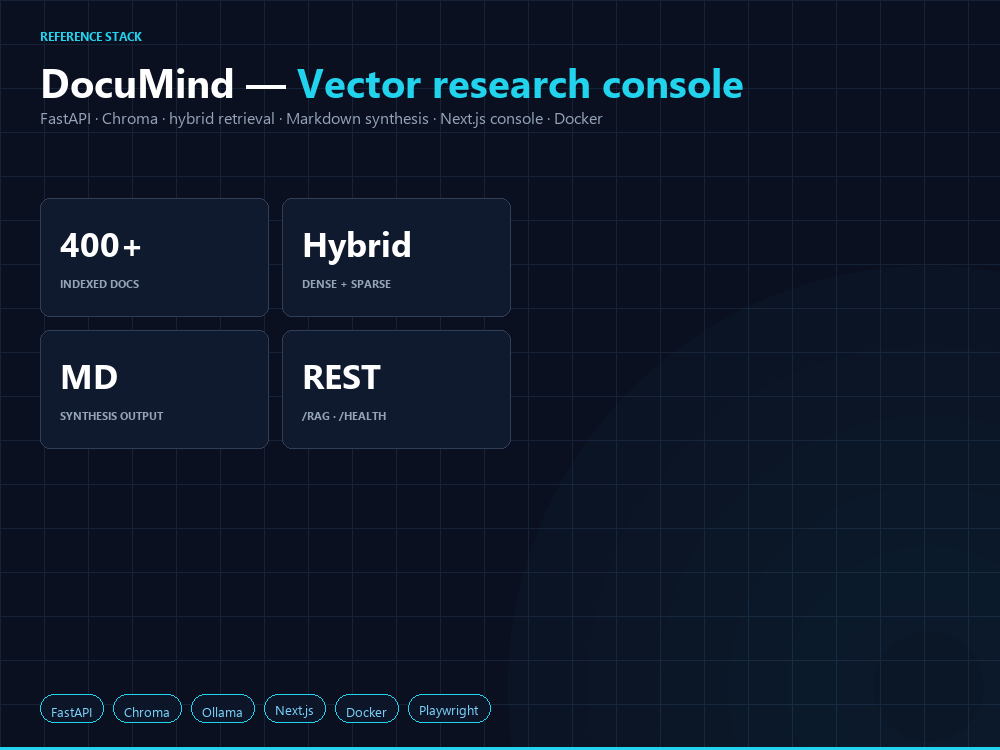
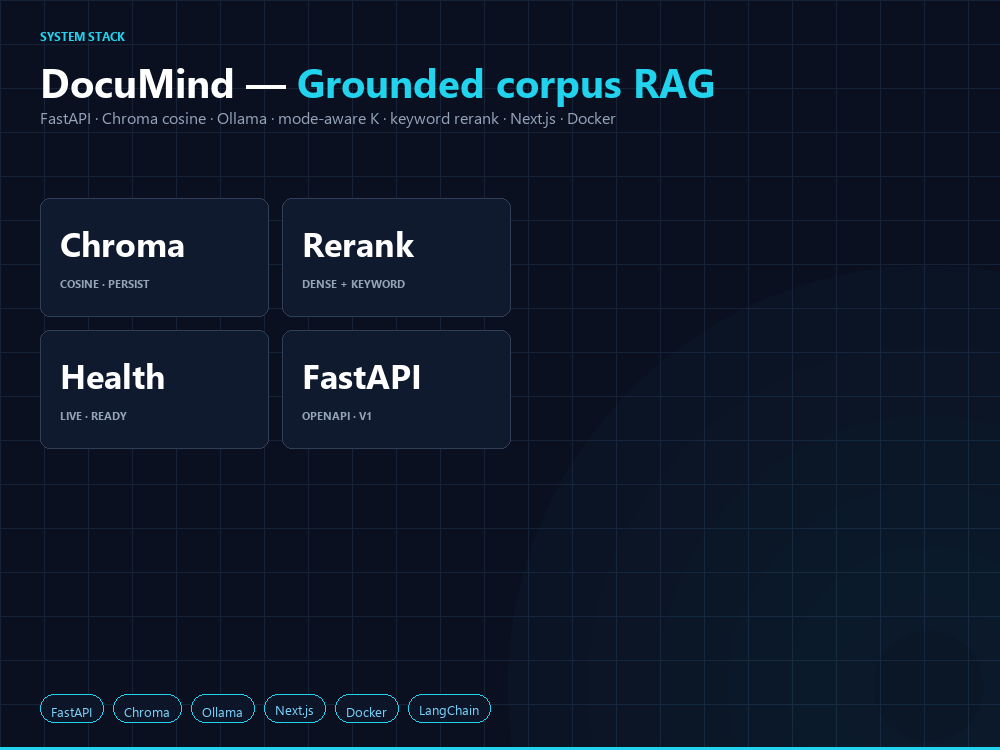
Revise portfolio HTML and README for clarity and accuracy. Update project descriptions, acceptance criteria, and metadata to better reflect the capabilities of the DocuMind system. Enhance thumbnail design and update related scripts for improved output consistency. Adjust layout and content for bett

diff --git a/portfolio/Upwork_Project_Catalog_Client.html b/portfolio/Upwork_Project_Catalog_Client.html
@@ -37,7 +37,7 @@
 </head>
 <body>
   <main>
-    <div class="banner">Upwork Project Catalog &mdash; Fixed-price offer (adapt from DocuMind-class reference implementation)</div>
+    <div class="banner">Fixed-price offer &mdash; document RAG MVP (scope aligned with production-style reference builds)</div>
 
     <h1>Document RAG MVP: ingest, index, grounded Q&amp;A, deploy</h1>
     <p class="meta">Single-tenant MVP suitable for internal research, policy, or technical libraries. You get a working API, operator UI, handoff docs, and two weeks of post-launch defect support.</p>
@@ -46,7 +46,7 @@
     <p class="meta" style="margin-top:0">Structured as three Upwork milestones (below). Alternative: <strong>USD 135/hr</strong> with a <strong>25-hour minimum</strong> if you prefer hourly with a capped discovery phase first.</p>
 
     <div class="callout">
-      <strong>Why this number:</strong> It reflects a bounded MVP (not open-ended consulting), includes integration and one deployment target, and leaves room for you to discount slightly for your first few contracts without working below market. If the client needs SSO, multi-tenant ACLs on chunks, or formal model risk documentation, treat those as Phase 2 (see add-ons).
+      <strong>Pricing note:</strong> Scoped MVP: one deployment surface, written milestones, bounded defect window. Discounts are your call; scope creep (SSO, multi-tenant ACLs on chunks, formal model governance packs) belongs in Phase 2 or add-ons.
     </div>
 
     <h2>Market context: what &ldquo;RAG MVP&rdquo; usually means on talent marketplaces</h2>
@@ -83,15 +83,15 @@
         </tr>
       </tbody>
     </table>
-    <p class="meta">Public repos in the &ldquo;ChatPDF + LangChain + vector DB&rdquo; shape (for example <em>ChatPDF-RAG</em>, <em>AskMyPDF-GPT4</em>, <em>RAG-PDF</em> on GitHub) illustrate how common the pattern is: easy to clone, hard to defend in procurement without the rows above addressed.</p>
+    <p class="meta">Many public &ldquo;ChatPDF&rdquo; repos share the same shallow shape: single chain, hosted keys assumed, weak acceptance criteria. Procurement and internal platform teams ask for health semantics, API contracts, and repeatable ingest — the gap this catalog closes.</p>
 
     <h2>What makes <em>this</em> catalog stand out for buyers</h2>
     <ul>
-      <li><strong>Written acceptance criteria per milestone</strong> (ingest success, non-empty citations, readiness check) so escrow maps to evidence, not vibes.</li>
+      <li><strong>Written acceptance criteria per milestone</strong> (ingest success, non-empty citations, readiness check) so escrow maps to verifiable deliverables.</li>
       <li><strong>Dual health model</strong> (liveness vs readiness) aligned with how platform teams deploy behind proxies.</li>
       <li><strong>Retrieval behavior spelled in</strong> (top-k, optional section filter, rerank / diversity) so one paper cannot dominate context&mdash;a frequent failure in generic RAG demos.</li>
       <li><strong>Multiple grounded query modes</strong> (not only Q&amp;A): comparison, methodology, structured dataset hints, reproducibility-style checklist&mdash;signals research-adjacent use, not a single chat box.</li>
-      <li><strong>Deployment + runbook + bounded support</strong> treats the handoff as part of the product, which differentiates from &ldquo;here is my Colab link.&rdquo;</li>
+      <li><strong>Deployment + runbook + bounded support</strong> so handoff is contractual, not an ad-hoc repo drop.</li>
     </ul>
 
     <h2>What the client receives</h2>
@@ -175,7 +175,7 @@
     <h2>Print to PDF</h2>
     <p>Open this file in Chrome or Edge, Ctrl+P, Save as PDF, margins Default, background graphics Off.</p>
 
-    <p class="meta" style="margin-top:2rem;"><em>Reference codebase: DocuMind (local RAG demo). Replace this footer with your public repo or private demo link when posting.</em></p>
+    <p class="meta" style="margin-top:2rem;"><em>Reference: DocuMind (FastAPI + Chroma + Ollama + Next.js). Replace with your repo or demo link before posting.</em></p>
   </main>
 </body>
 </html>

diff --git a/portfolio/DocuMind_Upwork_Catalog.html b/portfolio/DocuMind_Upwork_Catalog.html
@@ -5,7 +5,7 @@
   <meta name="viewport" content="width=device-width, initial-scale=1" />
   <meta name="color-scheme" content="light" />
   <title>DocuMind — Upwork portfolio &amp; project catalog brief</title>
-  <meta name="description" content="DocuMind: local-first research RAG (FastAPI, ChromaDB, Ollama, Next.js). Portfolio brief for Upwork attachments and proposals." />
+  <meta name="description" content="DocuMind: FastAPI RAG with Chroma cosine index, Ollama inference, mode-specific retrieval, OpenAPI v1, live/ready probes. Next.js UI. Reference implementation for technical hiring and fixed-scope contracts." />
   <link rel="preconnect" href="https://fonts.googleapis.com" />
   <link rel="preconnect" href="https://fonts.gstatic.com" crossorigin />
   <link href="https://fonts.googleapis.com/css2?family=Source+Serif+4:ital,opsz,wght@0,8..60,400;0,8..60,600;0,8..60,700;1,8..60,400&display=swap" rel="stylesheet" />
@@ -165,7 +165,7 @@
 <body>
   <main>
     <h1>DocuMind</h1>
-    <p class="lede">Local-first RAG over a research library. Use this page as an <strong>Upwork attachment</strong> (save as PDF from Chrome/Edge) or paste sections into your <strong>Project Catalog</strong> and proposals. Replace only the bracketed profile link below.</p>
+    <p class="lede">Single-page brief for recruiters and marketplace attachments. Export <strong>PDF</strong> from Chrome or Edge (<kbd>Ctrl</kbd>+<kbd>P</kbd> &rarr; Save as PDF). Paste sections into proposals as needed. Fill bracketed placeholders before sending.</p>
 
     <div class="callout">
       <strong>Before you publish:</strong> (1) Re-run the screenshot pipeline if the UI changed, (2) paste your Upwork profile URL below, (3) replace the pricing placeholders with your numbers, (4) add a staging URL or say you demo over screen share.
@@ -181,11 +181,11 @@
       <a href="screenshots/documind-dashboard.png" title="Open full dashboard capture (Playwright; default 1680×3200)">
         <img src="screenshots/documind-upwork-catalog-1000x750.png" width="1000" height="750" alt="DocuMind — portfolio tile: poster left, live dashboard right (1000×750)" loading="lazy" decoding="async" />
       </a>
-      <figcaption><strong>Figure 1.</strong> <strong>1000×750</strong> — narrow left spine (stack) + ~82% width <strong>zoomed</strong> UI band (short vertical crop from the capture so body text stays readable). Re-upload after regenerating. Full: <code>screenshots/documind-dashboard.png</code> (prefer 1680px-wide capture).</figcaption>
+      <figcaption><strong>Figure 1.</strong> Project catalog tile <strong>1000×750</strong> (vector layout: stack line, four capability cards, runtime pills). Regenerate: <code>python scripts/catalog_thumb_art.py --out portfolio/screenshots/documind-upwork-catalog-1000x750.png</code>. Full dashboard capture for interviews: <code>screenshots/documind-dashboard.png</code> (Playwright; default 1680×3200 viewport).</figcaption>
     </figure>
 
     <h2>One-line pitch</h2>
-    <p>Ingest PDFs, Word, and text; optional arXiv fetch; section-style chunk metadata; ChromaDB vectors; retrieval with rerank and cross-paper diversity; Ollama-backed answers with mode-specific prompts and citations; optional FLARE-style second retrieval. FastAPI service and Next.js UI; bundled sample corpus (~460 UTF-8 briefs) indexes when Ollama is available.</p>
+    <p>FastAPI service: ingest PDF/DOCX/TXT (optional arXiv pull), LangChain-style chunking into Chroma with cosine distance, query modes that change retrieval budget and prompts, keyword-weighted rerank, optional FLARE-inspired follow-up retrieval, citations with chunk metadata. Ollama for embed + chat; Next.js dashboard; pytest on routers; <code>/health/live</code> vs <code>/health/ready</code>.</p>
 
     <h2>What you ship in this shape</h2>
     <ul>

diff --git a/web/app/page.tsx b/web/app/page.tsx
@@ -407,7 +407,7 @@ export default function HomePage() {
           <div>
             <div className="enterprise-topbar__title">DocuMind</div>
             <div className="enterprise-topbar__subtitle">
-              Multi-document RAG · local Chroma + Ollama · FastAPI / OpenAPI
+              Multi-document RAG · Chroma · Ollama · FastAPI · OpenAPI v1
             </div>
           </div>
         </div>
@@ -482,9 +482,9 @@ export default function HomePage() {
               <div>
                 <h2 className="card-hero-title">Cross-document retrieval</h2>
                 <p className="card-hero-lead">
-                  Query modes change prompts and filters. Each run returns Markdown, a confidence value, and optional
-                  FLARE-style second retrieval. Pick a showcase card, run query, then open Sources to inspect chunk
-                  text and distances.
+                  Modes alter retrieval budget, section scope, and prompt shape. Response: Markdown synthesis,
+                  confidence score, source cards (chunk text, cosine distance). Optional second retrieval pass (FLARE-style).
+                  Load a scenario, run query, expand Sources.
                 </p>
               </div>
               <span className="kbd-hint" title="Submit from the question field">

diff --git a/web/app/layout.tsx b/web/app/layout.tsx
@@ -15,9 +15,9 @@ const outfit = Outfit({
 });
 
 export const metadata: Metadata = {
-  title: "DocuMind · RAG over a document library",
+  title: "DocuMind · Retrieval-augmented research library",
   description:
-    "FastAPI + ChromaDB + Ollama: ingest PDF/DOCX/TXT, optional arXiv fetch, vector search, mode-specific prompts, citations, optional FLARE-style second retrieval. Next.js dashboard."
+    "FastAPI: Chroma (cosine) persistent index, Ollama embeddings and chat, mode-specific retrieval budgets, keyword-weighted rerank, optional FLARE follow-up. OpenAPI v1, live/ready health split. Next.js operator UI."
 };
 
 export default function RootLayout({ children }: { children: React.ReactNode }) {

diff --git a/scripts/bench_api.py b/scripts/bench_api.py
@@ -1,0 +1,108 @@
+#!/usr/bin/env python3
+"""
+Measure latency against a running DocuMind API (real Chroma + Ollama).
+
+Usage (API up on 8001):
+  python scripts/bench_api.py --base-url http://127.0.0.1:8001
+
+Does not start servers; fails fast if unreachable.
+"""
+from __future__ import annotations
+
+import argparse
+import statistics
+import sys
+import time
+from typing import Callable
+
+import httpx
+
+
+def _ms(t: float) -> float:
+    return t * 1000.0
+
+
+def _percentile(sorted_samples: list[float], p: float) -> float:
+    if not sorted_samples:
+        return 0.0
+    k = (len(sorted_samples) - 1) * p
+    f = int(k)
+    c = min(f + 1, len(sorted_samples) - 1)
+    if f == c:
+        return sorted_samples[f]
+    return sorted_samples[f] + (sorted_samples[c] - sorted_samples[f]) * (k - f)
+
+
+def _bench(name: str, fn: Callable[[], None], iterations: int) -> dict[str, float]:
+    fn()  # warmup
+    samples: list[float] = []
+    for _ in range(iterations):
+        t0 = time.perf_counter()
+        fn()
+        samples.append(time.perf_counter() - t0)
+    samples.sort()
+    return {
+        "name": name,
+        "n": float(iterations),
+        "min_ms": _ms(samples[0]),
+        "p50_ms": _ms(statistics.median(samples)),
+        "p95_ms": _ms(_percentile(samples, 0.95)),
+        "max_ms": _ms(samples[-1]),
+    }
+
+
+def main() -> int:
+    ap = argparse.ArgumentParser(description="HTTP latency benchmark for DocuMind API")
+    ap.add_argument("--base-url", default="http://127.0.0.1:8001", help="API root (no trailing slash)")
+    ap.add_argument("-n", "--iterations", type=int, default=30, help="Requests per endpoint")
+    ap.add_argument("--query", default="What datasets are mentioned?", help="Body for POST /api/v1/query")
+    ns = ap.parse_args()
+    base = ns.base_url.rstrip("/")
+
+    try:
+        with httpx.Client(timeout=120.0) as client:
+            r = client.get(f"{base}/health/live")
+            r.raise_for_status()
+    except Exception as exc:
+        print(f"Cannot reach API at {base}: {exc}", file=sys.stderr)
+        return 1
+
+    results: list[dict[str, float]] = []
+
+    with httpx.Client(timeout=120.0) as client:
+
+        def live() -> None:
+            client.get(f"{base}/health/live").raise_for_status()
+
+        def ready() -> None:
+            client.get(f"{base}/health/ready").raise_for_status()
+
+        def stats() -> None:
+            client.get(f"{base}/api/v1/collection/stats").raise_for_status()
+
+        def query_post() -> None:
+            client.post(
+                f"{base}/api/v1/query",
+                json={"query": ns.query, "top_k": 8, "query_mode": "general"},
+            ).raise_for_status()
+
+        results.append(_bench("GET /health/live", live, ns.iterations))
+        results.append(_bench("GET /health/ready", ready, ns.iterations))
+        results.append(_bench("GET /api/v1/collection/stats", stats, ns.iterations))
+        results.append(_bench("POST /api/v1/query", query_post, max(5, ns.iterations // 3)))
+
+    print(f"Base URL: {base}\n")
+    hdr = f"{'endpoint':<32} {'n':>4} {'min':>8} {'p50':>8} {'p95':>8} {'max':>8}"
+    print(hdr)
+    print("-" * len(hdr))
+    for row in results:
+        print(
+            f"{row['name']:<32} {int(row['n']):>4} "
+            f"{row['min_ms']:>7.1f} {row['p50_ms']:>7.1f} {row['p95_ms']:>7.1f} {row['max_ms']:>7.1f}"
+        )
+    print("\nTimes in ms. Query latency includes Ollama generation — dominate variable.")
+    return 0
+
+
+if __name__ == "__main__":
+    raise SystemExit(main())

diff --git a/tests/test_performance.py b/tests/test_performance.py
@@ -1,0 +1,62 @@
+"""
+Synthetic API latency regression tests (TestClient + fakes — no real Ollama/Chroma I/O).
+
+Budgets are loose enough for laptops and CI; tighten locally if you profile optimized builds.
+"""
+from __future__ import annotations
+
+import statistics
+import time
+
+
+def _median_ms(samples: list[float]) -> float:
+    return statistics.median(samples) * 1000
+
+
+def test_health_live_median_under_budget(client) -> None:
+    client.get("/health/live")  # warmup
+    times: list[float] = []
+    for _ in range(40):
+        t0 = time.perf_counter()
+        r = client.get("/health/live")
+        times.append(time.perf_counter() - t0)
+        assert r.status_code == 200
+    med = _median_ms(times)
+    assert med < 400.0, f"/health/live median {med:.1f}ms (budget 400ms)"
+
+
+def test_health_ready_median_under_budget(client) -> None:
+    client.get("/health/ready")  # warmup
+    times: list[float] = []
+    for _ in range(40):
+        t0 = time.perf_counter()
+        r = client.get("/health/ready")
+        times.append(time.perf_counter() - t0)
+        assert r.status_code == 200
+    med = _median_ms(times)
+    assert med < 500.0, f"/health/ready median {med:.1f}ms (budget 500ms)"
+
+
+def test_query_empty_collection_median_under_budget(client) -> None:
+    payload = {"query": "noop performance probe", "top_k": 6, "query_mode": "general"}
+    client.post("/api/v1/query", json=payload)  # warmup
+    times: list[float] = []
+    for _ in range(25):
+        t0 = time.perf_counter()
+        r = client.post("/api/v1/query", json=payload)
+        times.append(time.perf_counter() - t0)
+        assert r.status_code == 200
+    med = _median_ms(times)
+    assert med < 600.0, f"POST /api/v1/query (empty index) median {med:.1f}ms (budget 600ms)"
+
+
+def test_collection_stats_median_under_budget(client) -> None:
+    client.get("/api/v1/collection/stats")  # warmup
+    times: list[float] = []
+    for _ in range(40):
+        t0 = time.perf_counter()
+        r = client.get("/api/v1/collection/stats")
+        times.append(time.perf_counter() - t0)
+        assert r.status_code == 200
+    med = _median_ms(times)
+    assert med < 500.0, f"GET /api/v1/collection/stats median {med:.1f}ms (budget 500ms)"

diff --git a/scripts/catalog_thumb_art.py b/scripts/catalog_thumb_art.py
@@ -116,29 +116,29 @@ def render_documind_sentinel_tile(out_png: Path) -> None:
 
     margin_l = 40
     y = 28
-    draw.text((margin_l, y), "REFERENCE STACK", fill=ACCENT, font=fonts["kicker"])
+    draw.text((margin_l, y), "SYSTEM STACK", fill=ACCENT, font=fonts["kicker"])
     y += 26
 
     t1 = "DocuMind — "
-    t2 = "Vector research console"
+    t2 = "Grounded corpus RAG"
     draw.text((margin_l, y), t1, fill=WHITE, font=fonts["title"])
     b1 = draw.textbbox((margin_l, y), t1, font=fonts["title"])
     draw.text((b1[2], y), t2, fill=ACCENT, font=fonts["title"])
 
-    stack = "FastAPI · Chroma · hybrid retrieval · Markdown synthesis · Next.js console · Docker"
+    stack = "FastAPI · Chroma cosine · Ollama · mode-aware K · keyword rerank · Next.js · Docker"
     y += 52
     draw.text((margin_l, y), stack, fill=LABEL_GRAY, font=fonts["stack_line"])
 
-    # 2×2 cards (left block)
+    # 2×2 cards — production signals (match README / config story)
     y_cards = 198
     cw, ch = 228, 118
     gap = 14
-    _draw_metric_card(draw, margin_l, y_cards, cw, ch, "400+", "indexed docs", fonts)
-    _draw_metric_card(draw, margin_l + cw + gap, y_cards, cw, ch, "Hybrid", "dense + sparse", fonts)
-    _draw_metric_card(draw, margin_l, y_cards + ch + gap, cw, ch, "MD", "synthesis output", fonts)
-    _draw_metric_card(draw, margin_l + cw + gap, y_cards + ch + gap, cw, ch, "REST", "/rag · /health", fonts)
+    _draw_metric_card(draw, margin_l, y_cards, cw, ch, "Chroma", "cosine · persist", fonts)
+    _draw_metric_card(draw, margin_l + cw + gap, y_cards, cw, ch, "Rerank", "dense + keyword", fonts)
+    _draw_metric_card(draw, margin_l, y_cards + ch + gap, cw, ch, "Health", "live · ready", fonts)
+    _draw_metric_card(draw, margin_l + cw + gap, y_cards + ch + gap, cw, ch, "FastAPI", "openapi · v1", fonts)
 
-    pills = ["FastAPI", "Chroma", "Ollama", "Next.js", "Docker", "Playwright"]
+    pills = ["FastAPI", "Chroma", "Ollama", "Next.js", "Docker", "LangChain"]
     _draw_pill_row(draw, pills, fonts["pill"], margin_l, H - 56, gap=10)
 
     draw.rectangle((0, H - 3, W, H), fill=ACCENT)

diff --git a/README.md b/README.md
@@ -317,7 +317,7 @@ Under **`portfolio/`**: client project catalog HTML, portfolio brief HTML, optio
 # Custom API / wait cap:                .\scripts\capture_dashboard.ps1 -ApiBase "http://127.0.0.1:8001" -MaxLivenessWaitMinutes 240
 ```
 
-Or directly: `.\.venv\Scripts\python scripts\capture_dashboard_playwright.py --help` — waits for **≥120 chars** in `.prose-answer`, scrolls synthesis into view, writes **1680×3200** `portfolio/screenshots/documind-dashboard.png` (default `--viewport-width 1680`; use `--viewport-width 1440` if needed), then **1000×750** `portfolio/screenshots/documind-upwork-catalog-1000x750.png` (default Sentinel-style typography tile; `--plain-catalog-thumb` top-crops the dashboard). Thumb only: `.\.venv\Scripts\python scripts\capture_dashboard_playwright.py --thumb-only`. Standalone tile: `python scripts/catalog_thumb_art.py --out portfolio/screenshots/documind-upwork-catalog-1000x750.png`. Avoid `--full-page` for portfolio assets.
+Or directly: `.\.venv\Scripts\python scripts\capture_dashboard_playwright.py --help` — waits for **≥120 chars** in `.prose-answer`, scrolls synthesis into view, writes **1680×3200** `portfolio/screenshots/documind-dashboard.png` (default `--viewport-width 1680`; use `--viewport-width 1440` if needed), then **1000×750** `portfolio/screenshots/documind-upwork-catalog-1000x750.png` (default stack infographic tile; `--plain-catalog-thumb` top-crops the dashboard). Thumb only: `.\.venv\Scripts\python scripts\capture_dashboard_playwright.py --thumb-only`. Standalone tile: `python scripts/catalog_thumb_art.py --out portfolio/screenshots/documind-upwork-catalog-1000x750.png`. Avoid `--full-page` for portfolio assets.
 
 ---
 
